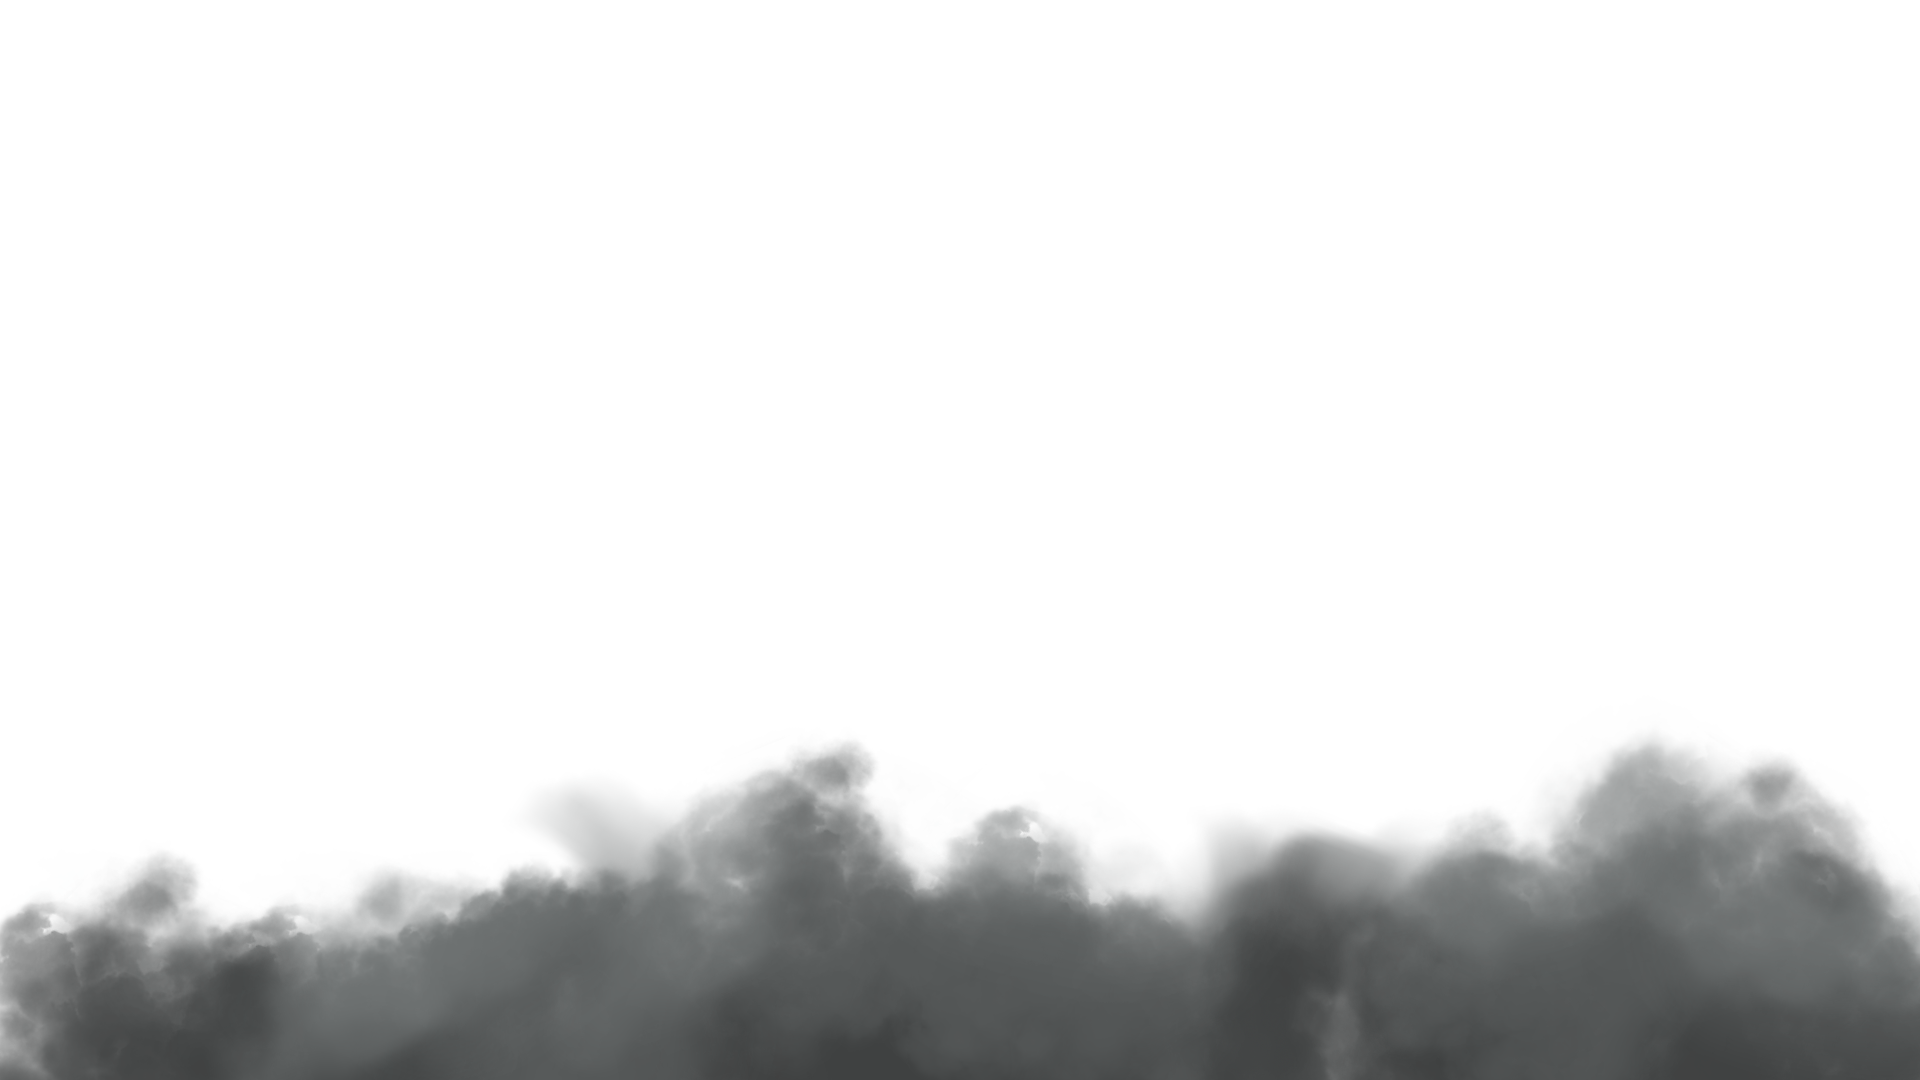
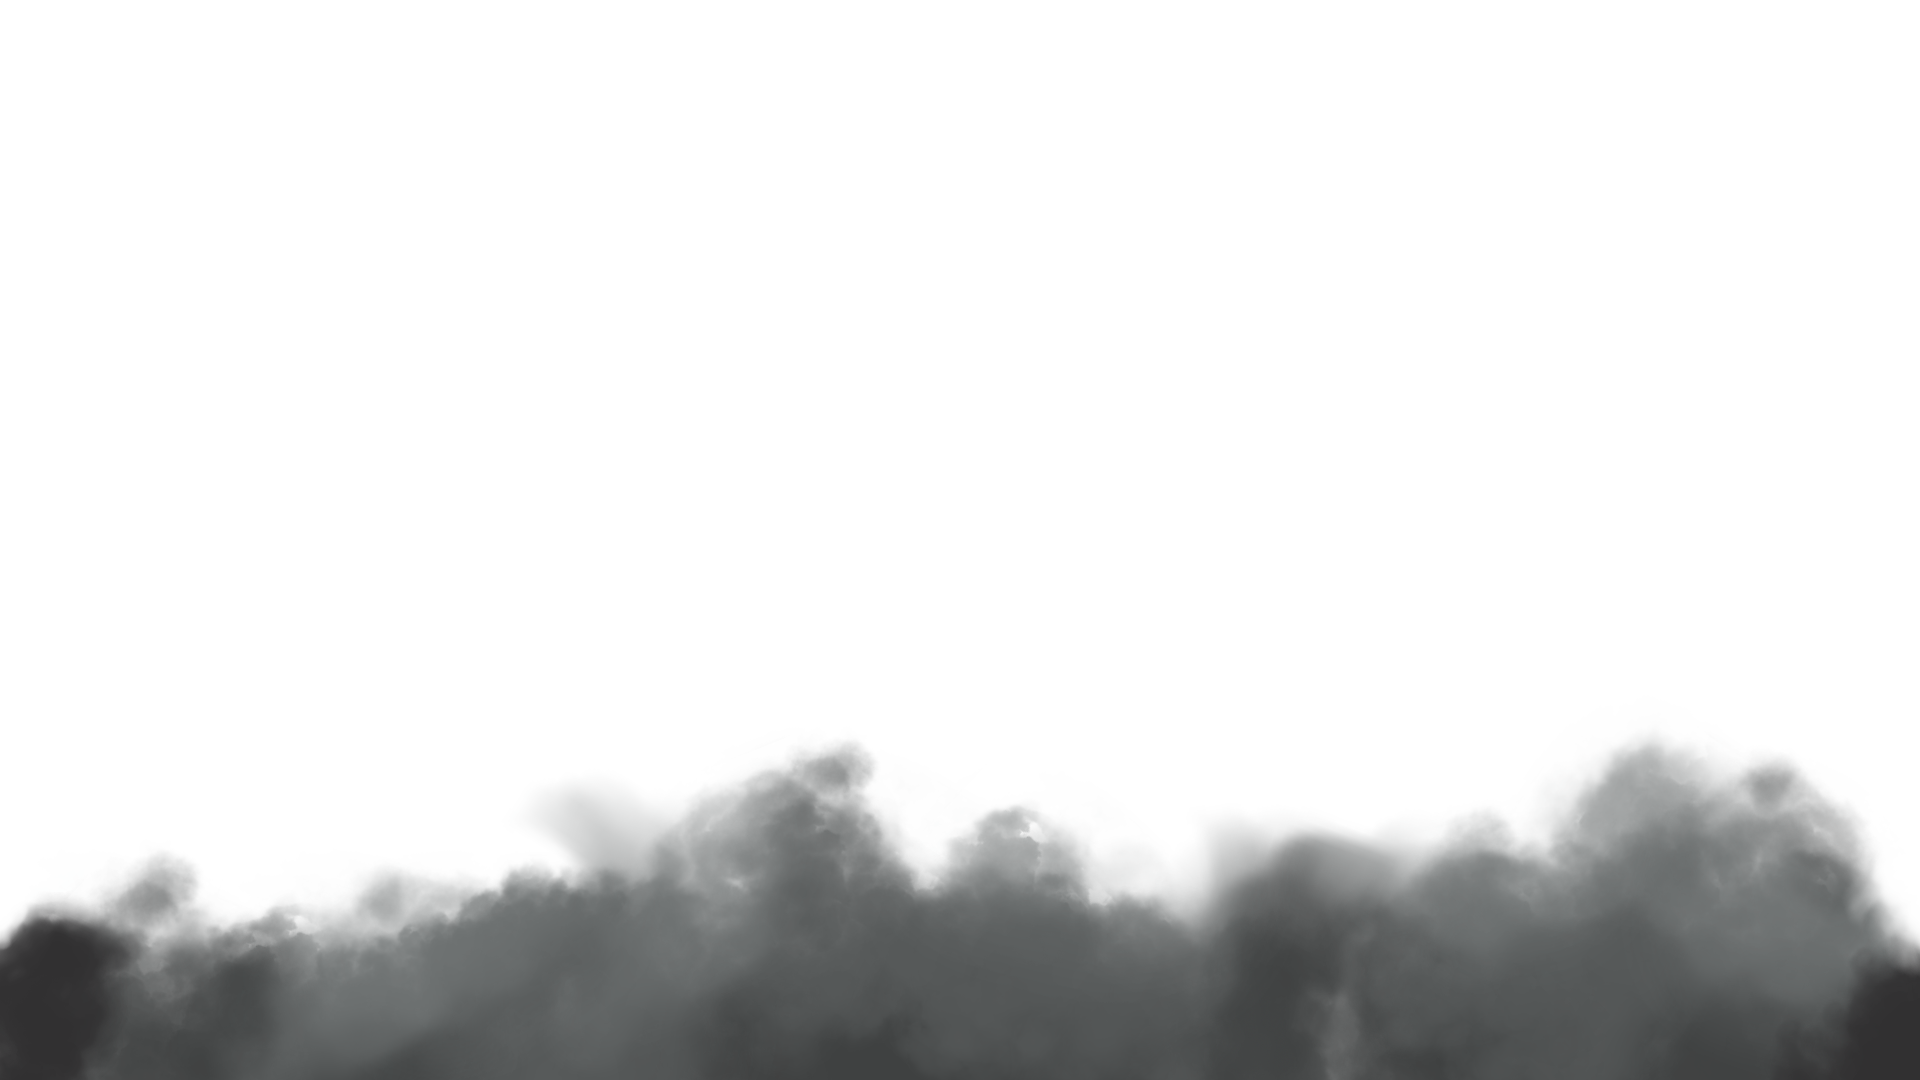
Фикс лоадинг скрина

Changed region(s): [[0.0, 0.825, 0.0625, 1.0], [0.9375, 0.7944, 1.0, 1.0]]

diff --git a/content/dota_addons/petri_reborn/panorama/styles/custom_game/custom_loading_screen.css b/content/dota_addons/petri_reborn/panorama/styles/custom_game/custom_loading_screen.css
@@ -52,7 +52,7 @@
 
   animation-name: gamemode_anim_petrosyan;
   animation-delay: AnimationDelay;
-  animation-duration: 80s;
+  animation-duration: 90s;
   animation-timing-function: TimingFunc;
   animation-iteration-count: 1;
 }
@@ -72,7 +72,7 @@
 .Smoke2
 {
   background-repeat: repeat-x;
-  background-position: -1080px 0%;
+  background-position: -1920px 0%;
   background-size: 100% 100%;
 
   animation-name: gamemode_anim_second;
@@ -100,7 +100,7 @@
 
   100%
   {
-    transform: translateX( 1080px ) translateY( 0px );
+    transform: translateX( 1920px ) translateY( 0px );
   }
 }
 
@@ -108,7 +108,7 @@
 {
   0%
   {
-    transform: translateX( -1080px ) translateY( 0px );
+    transform: translateX( -1920px ) translateY( 0px );
   }
 
   100%
